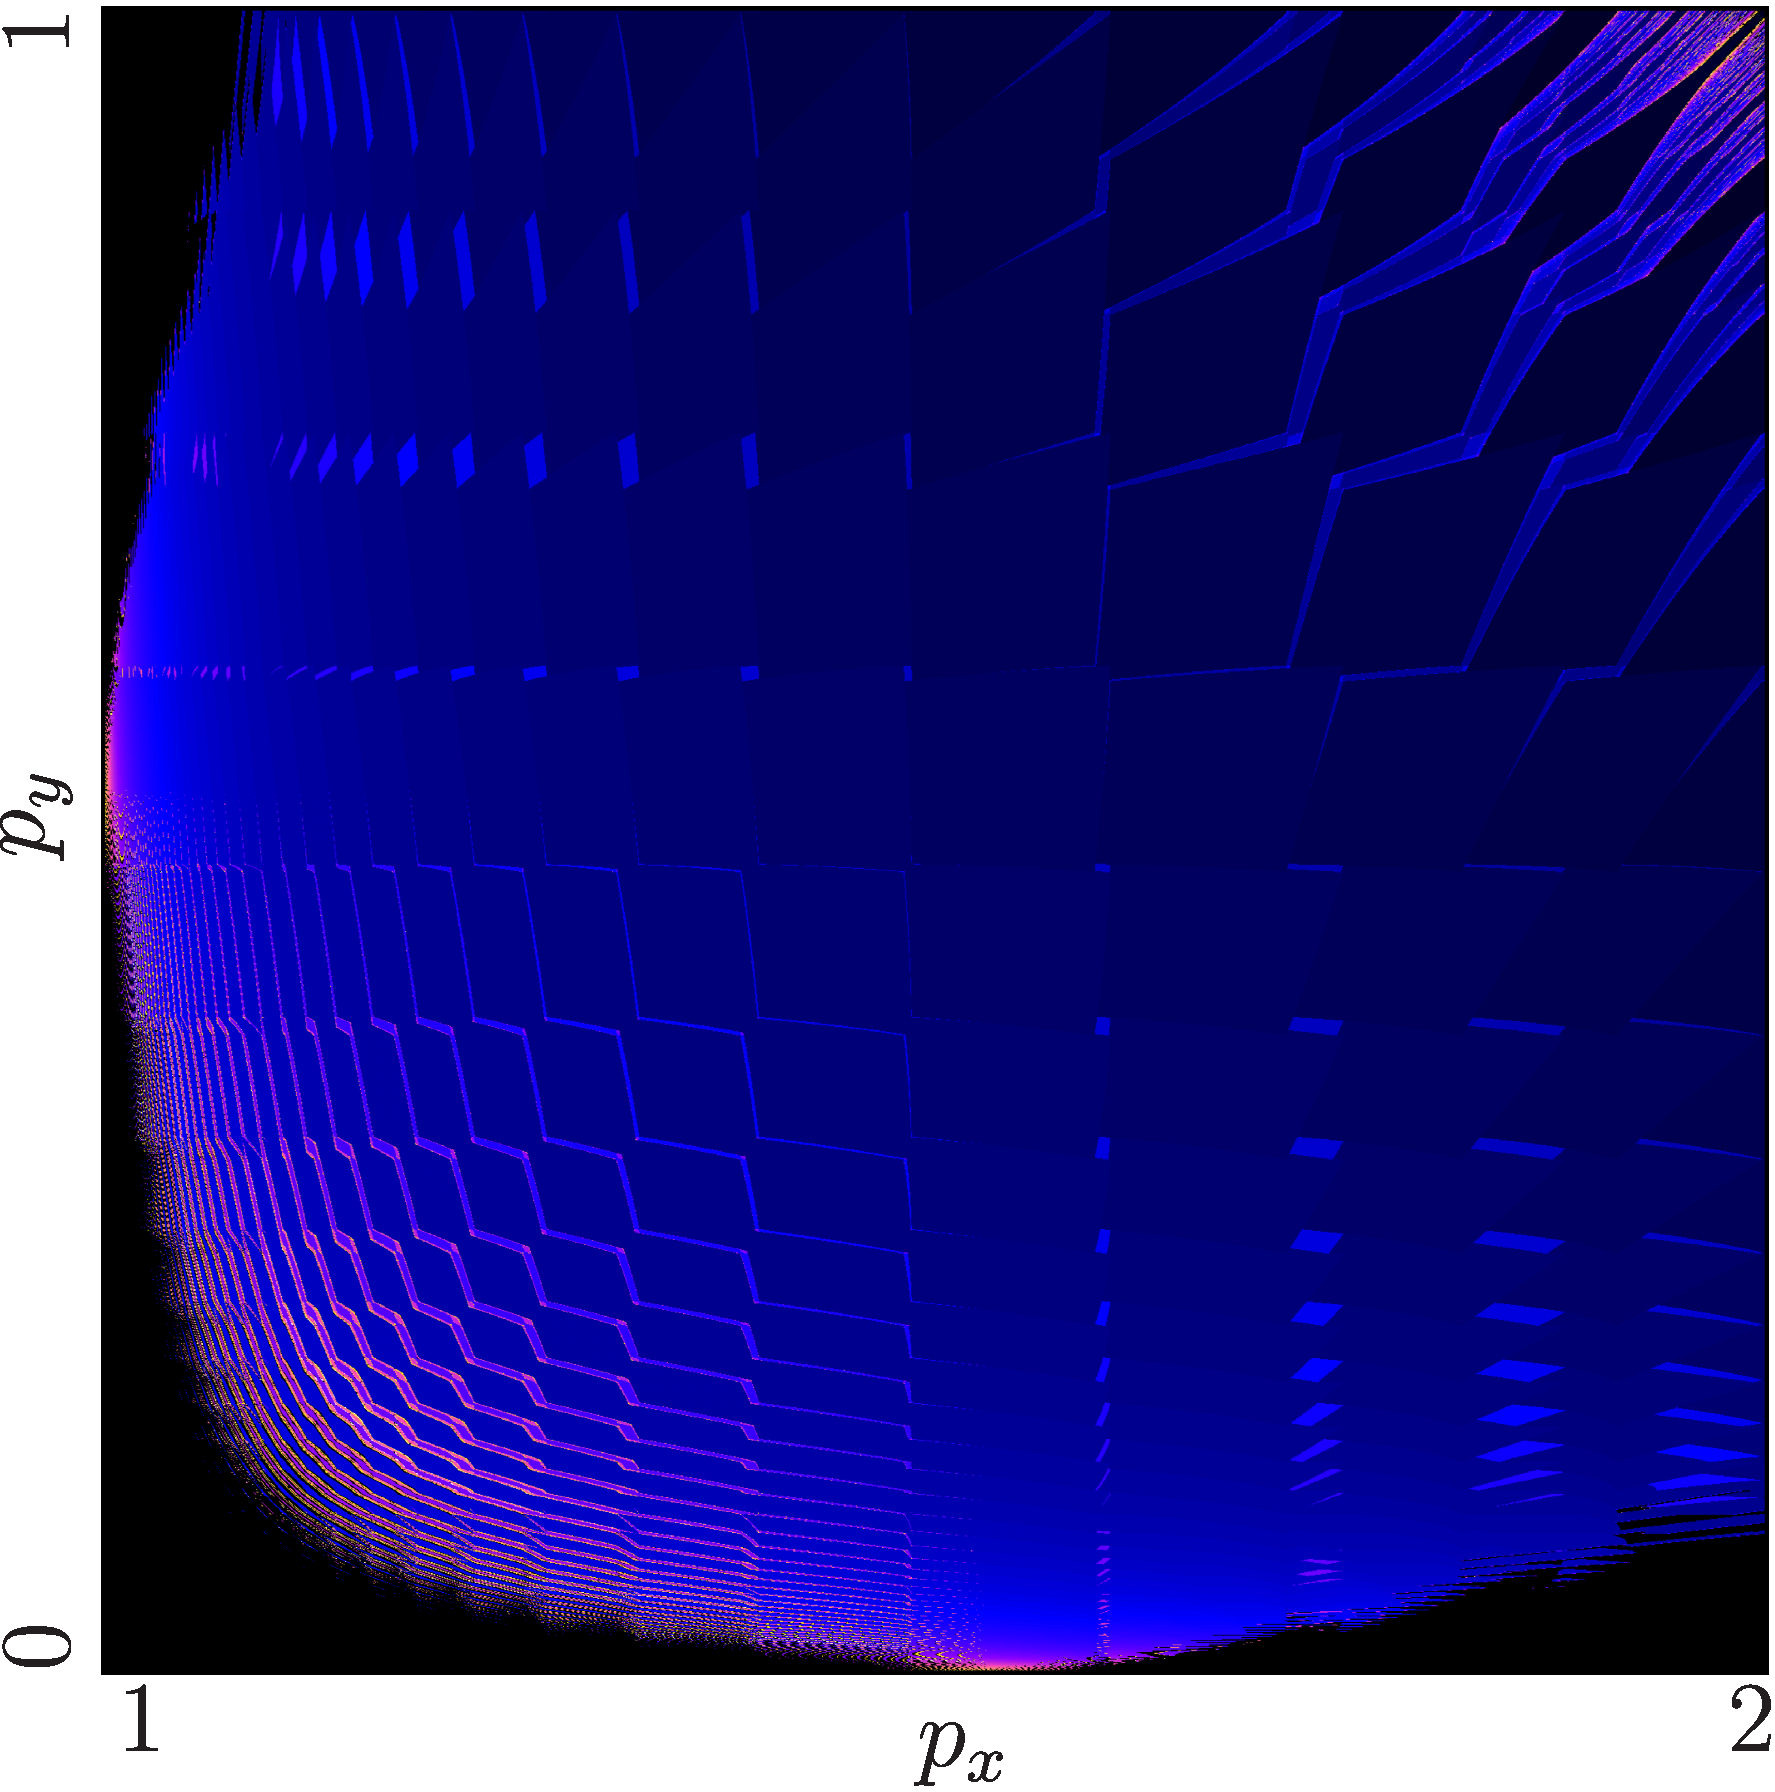
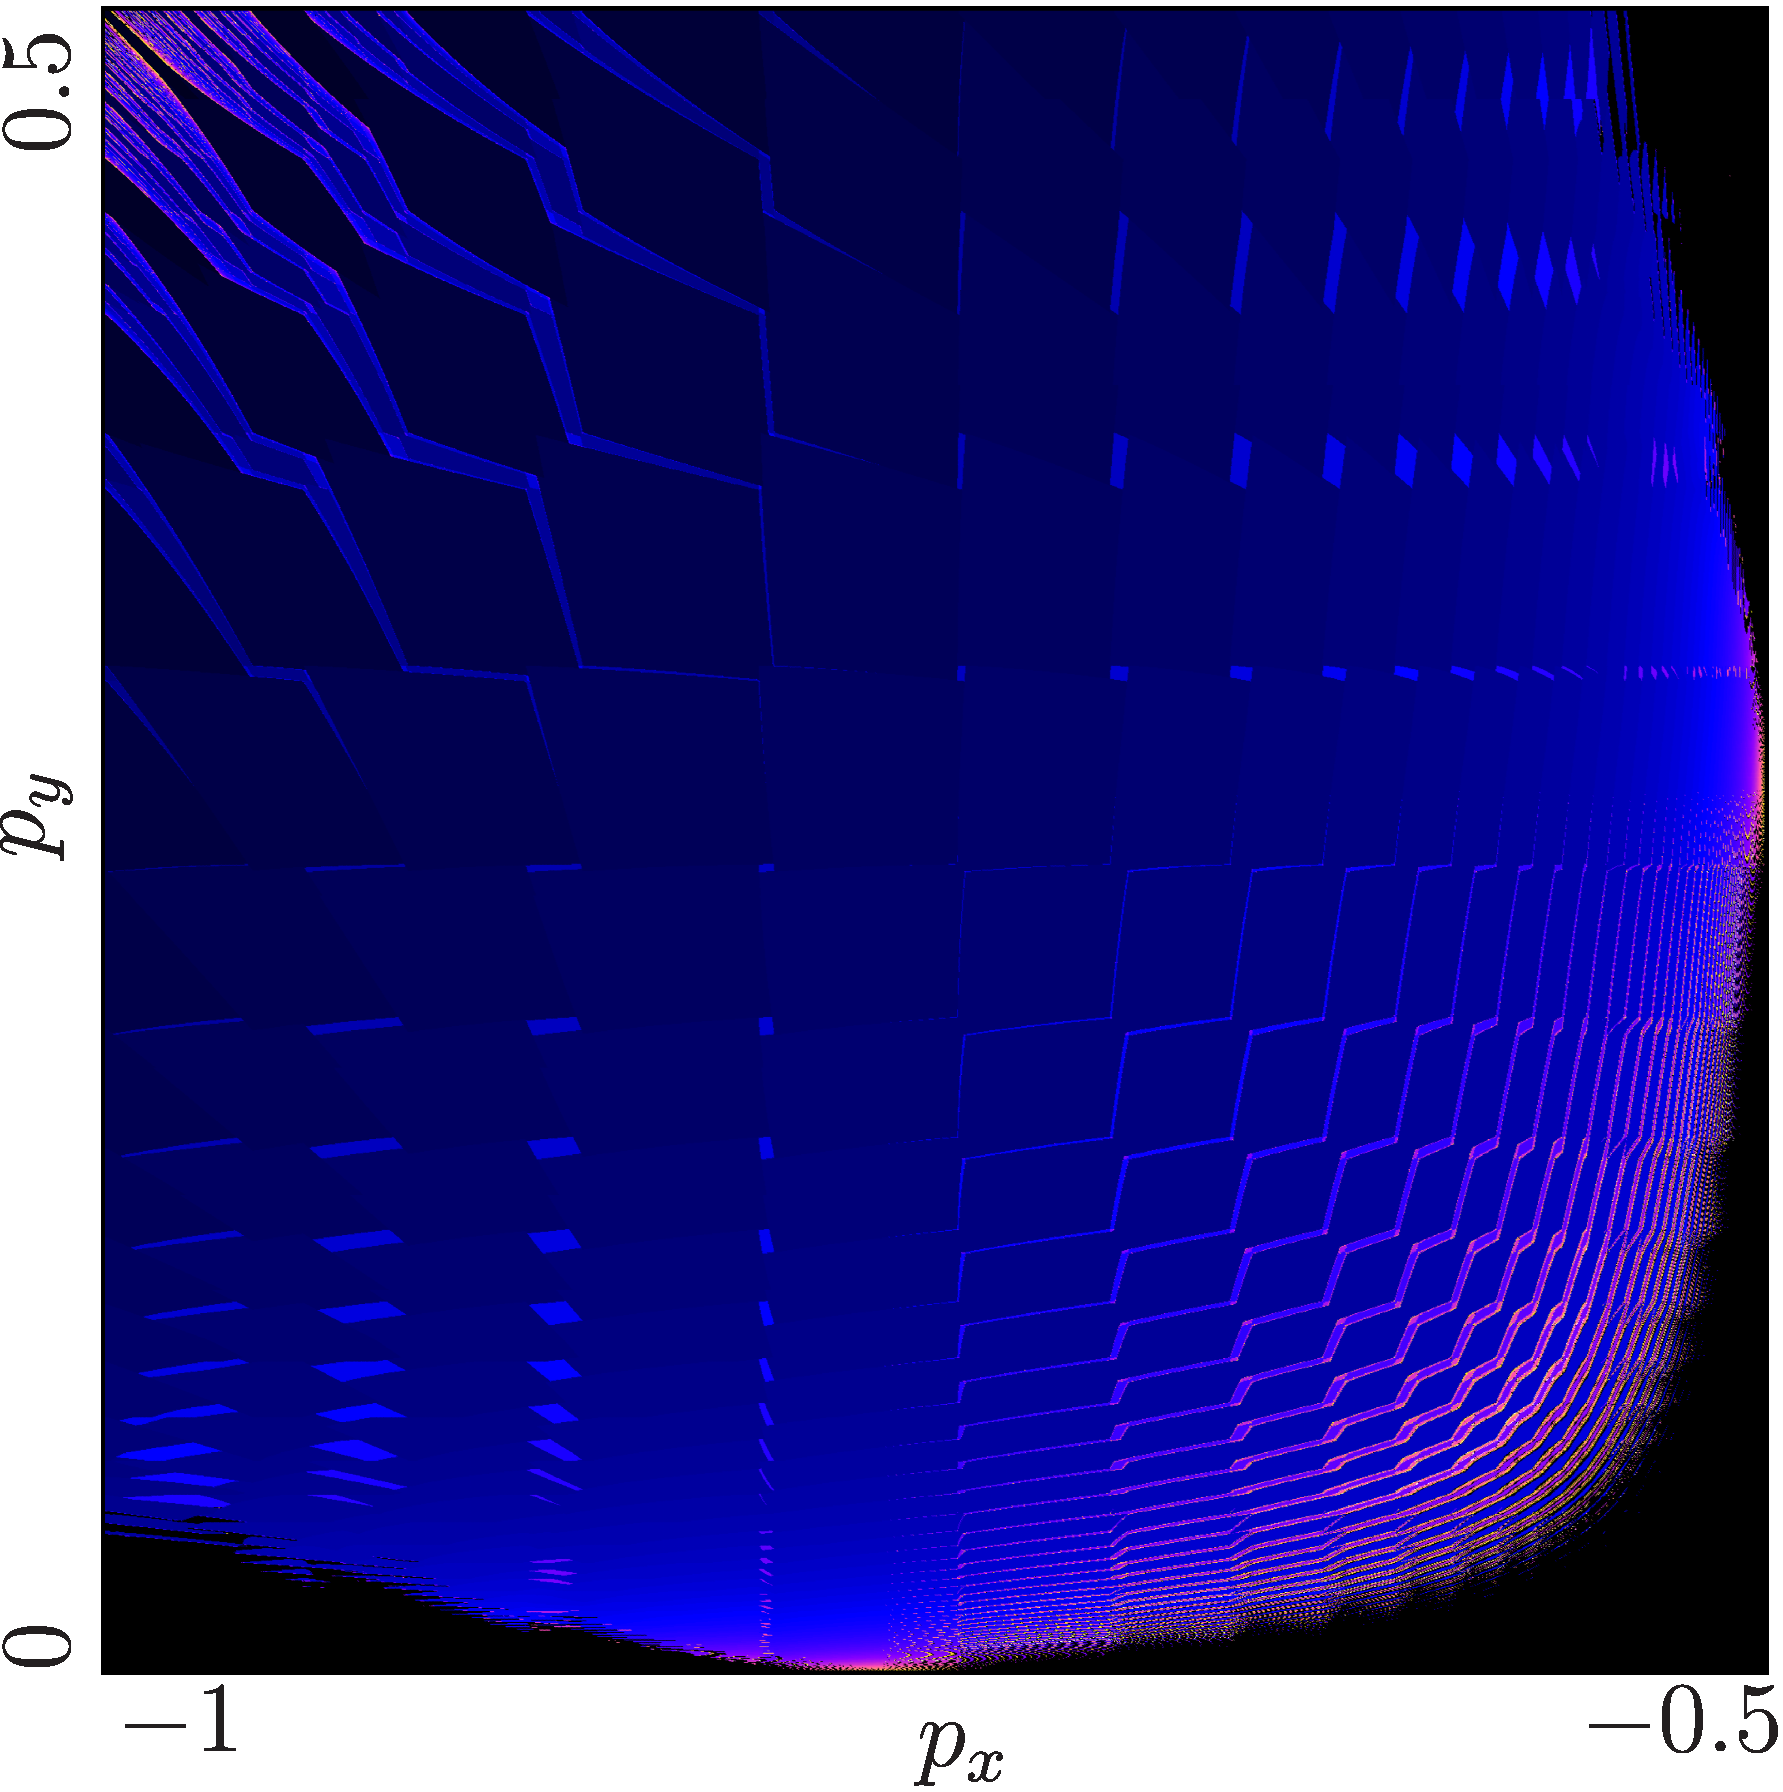
scale quad2 model

diff --git a/Simulation/Models/70_030_SearchAdding_quad2/model.cpp b/Simulation/Models/70_030_SearchAdding_quad2/model.cpp
@@ -3,32 +3,29 @@
 #include <cmath>
 #include <iostream>
 
-#define aL parameters[0]
-#define aR parameters[1]
-#define bL parameters[2]
-#define bR parameters[3]
-#define cL parameters[4]
-#define cR parameters[5]
-#define px parameters[6]
-#define py parameters[7]
+#define dl parameters[0]
+#define hl parameters[1]
+#define dr parameters[2]
+#define hr parameters[3]
+#define px parameters[4]
+#define py parameters[5]
 
-#define A (2.1)
-#define B (1.2)
-#define C (px)
+#define A (hl)
+#define B (dl)
+#define C (py)
 
-#define D (1.1)
-#define E (1.2)
-#define F (py)
+#define D (hr)
+#define E (dr)
+#define F (-px)
 
-#define _aL (E + F - D)
-#define _aR (B + C - A)
-#define _bL (D - F)
-#define _bR (A - C)
-#define _cL ((3. * D - E + F) / 4.)
-#define _cR ((3. * A - B + C) / 4.)
+#define _aL (2. * B + 4. * C - 4. * A)
+#define _aR (2. * E + 4. * F - 4. * D)
+#define _bL (2. * (A - C))
+#define _bR (2. * (D - F))
+#define _cL ((6. * A - B + 2. * C) / 8.)
+#define _cR ((6. * D - E + 2. * F) / 8.)
 
-#define n 2.0
-#define border 1
+#define border 0.5
 
 bool f(
     const Array<real_t>& currentState,
@@ -38,26 +35,18 @@ bool f(
     real_t y = 0;
 
     real_t x_mod = currentState[0];
-    if (x_mod >= n) {
-        x_mod -= n;
-
-        // discont in middle
-        y += n;
-    }
     
     if (x_mod < border) {
-        real_t x = x_mod - n / 4;
+        real_t x = x_mod - 0.25;
         y += _aL * x * x + _bL * x + _cL;
     } else {
-        real_t x = x_mod - 3 * n / 4;
+        real_t x = x_mod - 0.75;
         y += _aR * x * x + _bR * x + _cR;
     }
 
     // normalize
-    y = remainder(y, 1 * n);
-    
-    while (y < 0) {
-        y += 1 * n;
+    while (y > 1) {
+        y -= 1;
     }
 
     RHS[0] = y;
@@ -71,18 +60,10 @@ bool symbolic(
 ) {
     real_t x = currentState[0];
 
-    if (x < n) {
-        if (x < border) {
-            RHS = "A";
-        } else {
-            RHS = "B";
-        }
+    if (x < border) {
+        RHS = "A";
     } else {
-        if (x < n + border) {
-            RHS = "C";
-        } else {
-            RHS = "D";
-        }
+        RHS = "B";
     }
 
     return true;
